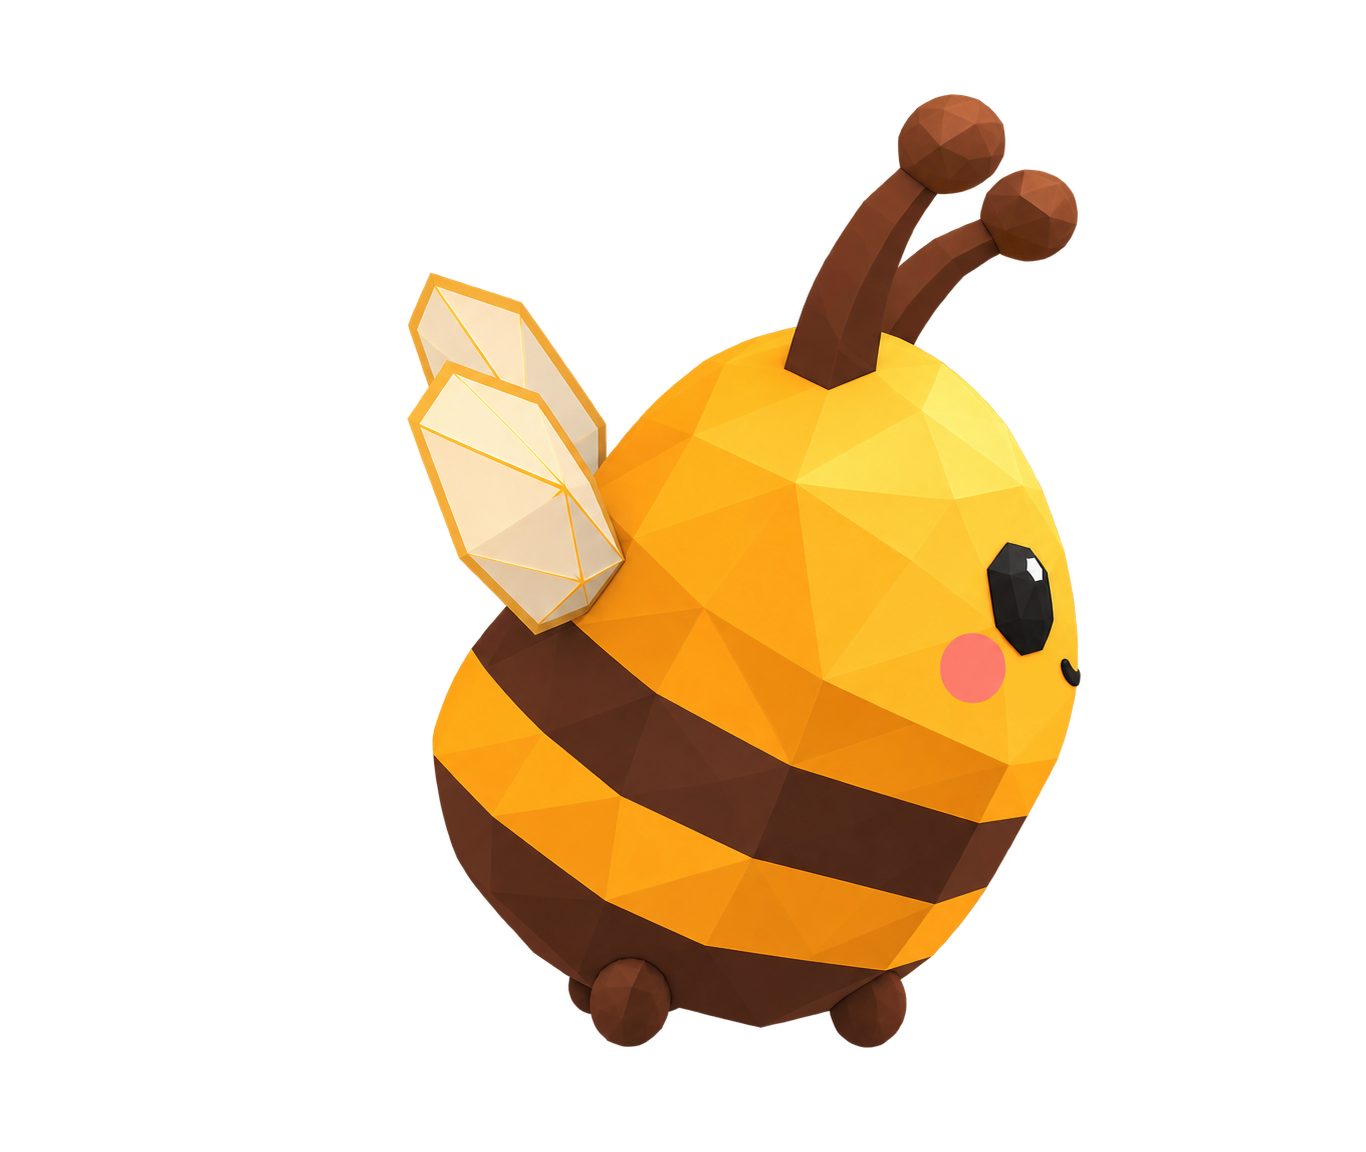
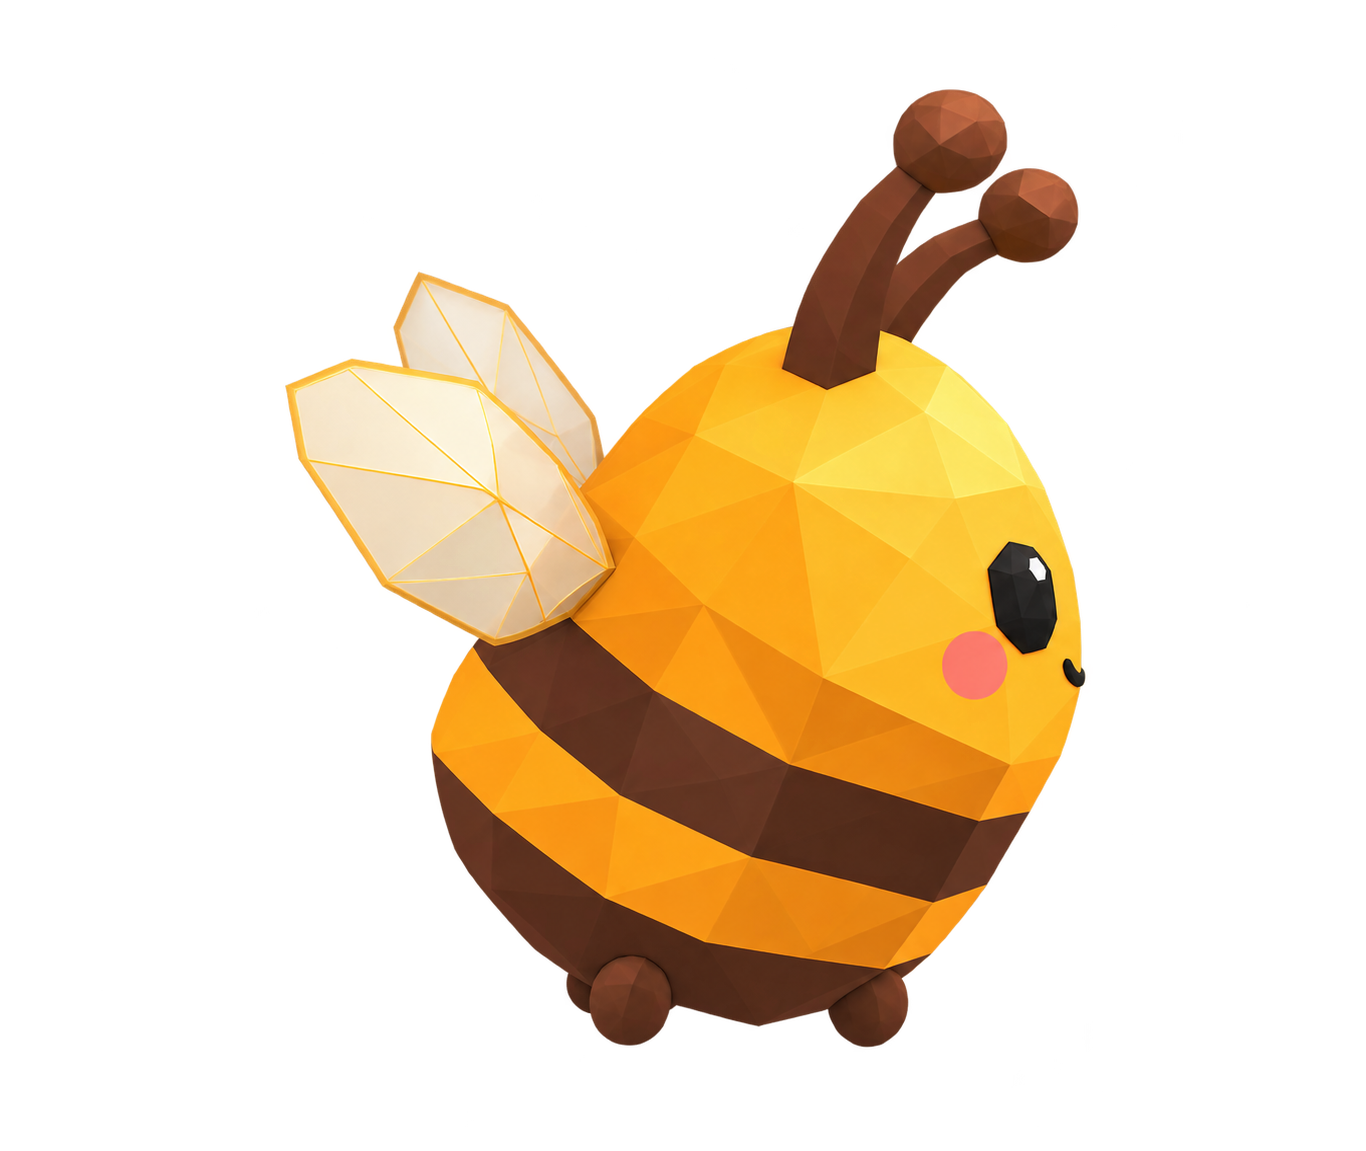
art: refine Zhuzha wings and define four-foot underside

diff --git a/design/3d/turnaround/REVISION-6.ru.md b/design/3d/turnaround/REVISION-6.ru.md
@@ -1,0 +1,13 @@
+# Доработка revision 6: четыре лапки, крылья и задний объём
+
+По решению владельца у Жужи четыре маленькие лапки: две двусторонние пары. На виде снизу показаны все четыре; в профиль две видимые лапки, на задних трёх четвертях три — остальные скрываются корпусом. Точки крепления снизу предложены, пока не утверждены. Старый вариант с тремя точками крепления отменён.
+
+Изменены только side.png, q3-back.png, bottom.png. Front, back, q3-front, face-front, face-q3 не менялись: контрольные суммы всех пяти совпадают с approved-views-sha256.json. Top тоже оставлен прежним. Игра и 2D-ассеты не затронуты.
+
+Профиль: расширена видимая мембрана ближнего крыла, ослаблена толщина золотого канта. Задние три четверти: вместо острого горизонтального клина дано широкое многоугольное крыло; оттенки боковых плоскостей и изгиб полос усиливают округлость. Вид снизу: центральная лапка заменена задней парой.
+
+Инструмент: встроенный image_gen.imagegen, transparent_background=true, три отдельных вызова. Модель, seed и разрешение вручную не задавались. Референсы: старый side/front/back для профиля; старый q3-back/back/front для заднего ракурса; старый bottom для нижнего. Точные промпты и исходные пути записаны в revision-v6-prompts.json. PNG сохранены без художественной ретуши. Старые варианты в archive-before-v6.
+
+Это кандидаты для проверки, не готовые инженерные проекции. Раскладка граней и фактический угол камеры между генерациями могут расходиться; поза крыльев стала ближе, но точная пространственная согласованность пока не доказана. На задних трёх четвертях толщина края крыла ещё заметнее эталона. Схема двух пар лапок должна стать правилом будущей геометрии; старые утверждённые ракурсы не перерисовывались ради неё. Вид сверху остаётся приблизительным. Объём заднего ракурса требует оценки владельца.
+
+Коллаж собран Pillow: полный холст каждого общего вида уменьшен одним коэффициентом .39 без отдельного нормирования персонажей; лица — крупные планы. Прозрачность исходных PNG сохранена.

diff --git a/design/3d/turnaround/README.ru.md b/design/3d/turnaround/README.ru.md
@@ -45,3 +45,7 @@ design/3d/zhuzha отсутствует в текущей ветке. Игра, 
 
 ## Актуальная доработка
 См. REVISION-5.ru.md. Front, back, q3-front и оба крупных плана утверждены владельцем и защищены проверкой контрольных сумм. Новые профиль, задние три четверти, верх и низ пока на согласовании.
+
+
+## Актуальная revision 6
+См. REVISION-6.ru.md. Принята схема четырёх лапок (две пары). Исправлены только профиль, задние три четверти и низ. Все пять утверждённых изображений защищены прежними SHA-256. Новые ракурсы ждут оценки владельца.
